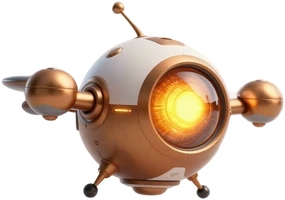
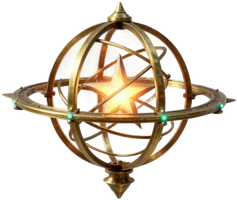
New look for the instructor

diff --git a/game.js b/game.js
@@ -358,7 +358,7 @@ function endGame(win) {
 }
 
 /* ---------- drawing ---------- */
-const ART_V = '1792559561';
+const ART_V = '1792559765';
 const IM = {};
 ['bg_1','bg_2','bg_3','lane_1','lane_2','lane_3','p_pad','p_core'].concat(Object.keys(ENEMY).map(t => 'e_' + t), KINDS.filter(k => k !== 'beam').flatMap(k => [1,2,3,4].map(n => 't_' + k + '_' + n)), ['pulse','rail','missile','flak','beam'].flatMap(k => [1,2,3,4].map(n => 'h_' + k + '_' + n))).forEach(n => { const i = new Image(); i.src = 'art/' + n + '.webp?v=' + ART_V; IM[n] = i; });
 const spr = n => { const i = IM[n]; return i && i.complete && i.naturalWidth ? i : null; };

diff --git a/index.html b/index.html
@@ -192,7 +192,7 @@ html,body,button,input{font-family:Rajdhani,system-ui,-apple-system,"Segoe UI",R
   <button class="btn alt" id="sClose">Close</button>
 </div></div>
 
-<script src="sfx.js?v=1792559561"></script>
-<script src="game.js?v=1792559561"></script>
+<script src="sfx.js?v=1792559765"></script>
+<script src="game.js?v=1792559765"></script>
 </body>
 </html>
